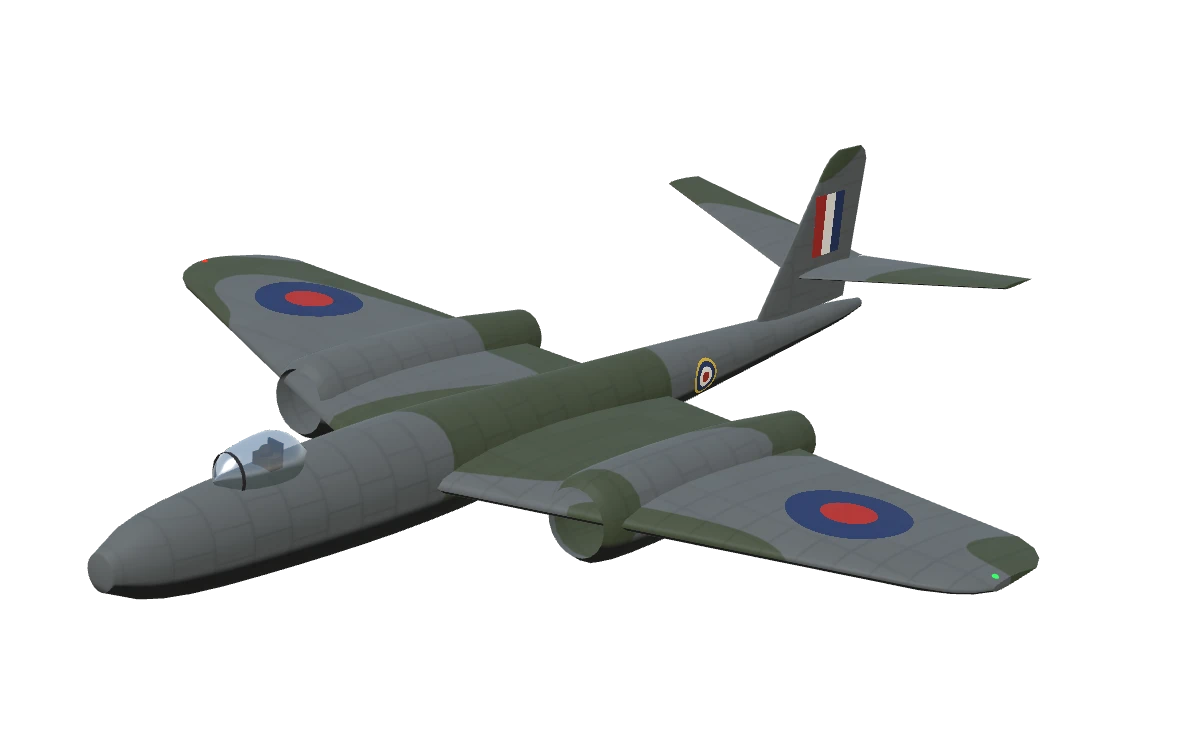
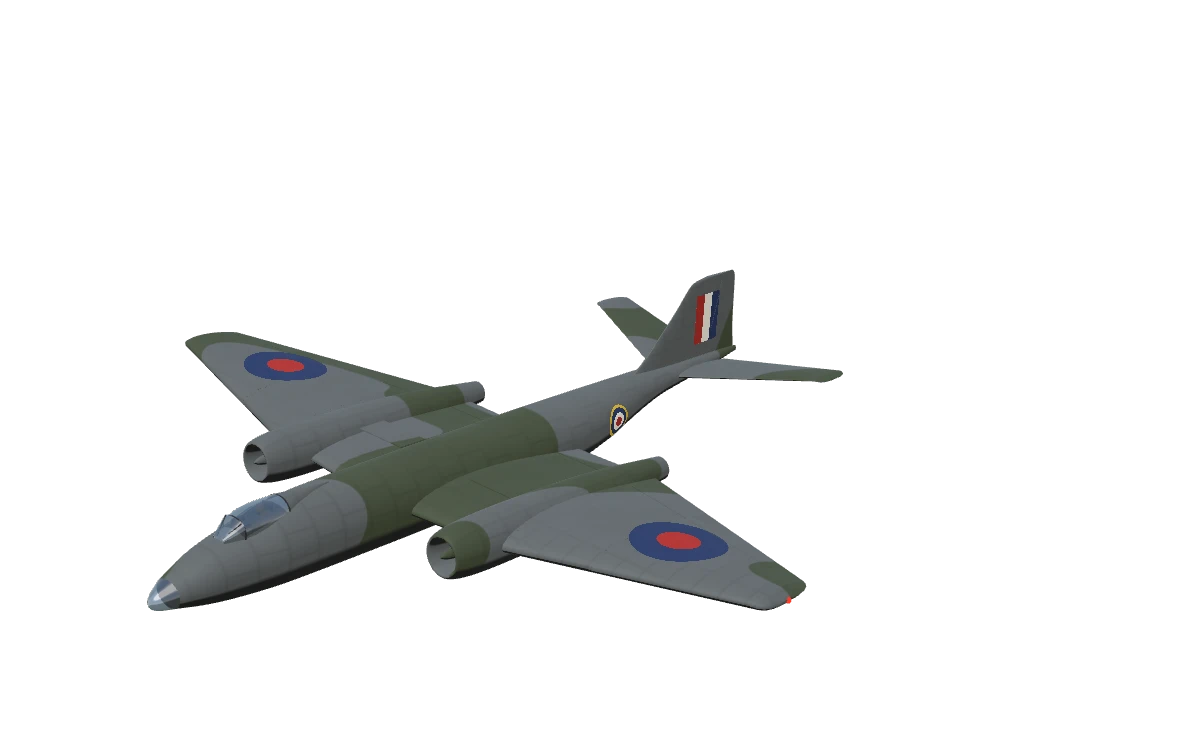
Canberra ayrıntılı model: üç görünüş siluetinden gövde, saydam burun konisi, Avon naselleri, geniş köklü kanat
- Çift burun tekerleği (nose.twin), dışa katlanan ana takım, iç kanat üstünde hava frenleri
- İç ve dış flap ayrı eklem (flapD); hareketli kumanda yüzeyleri, ışıklar
- gearHeight çizime göre; ansiklopedi görselleri yenilendi

Changed region(s): [[0.0617, 0.184, 0.8633, 0.828]]

diff --git a/src/render/models.ts b/src/render/models.ts
@@ -21,7 +21,7 @@ type Geo = THREE.BufferGeometry;
 let DETAIL = 1;
 /** Yüksek ayrıntıda ek çözünürlük çarpanı (videosu çekilen uçaklarda daha çok kenar ve profil noktası). */
 let RES = 1;
-const HIRES: Record<string, number> = { mig15: 2.4, sabre: 1.6, f84: 1.6, p80: 1.6, me262: 1.6, meteor: 1.6, vampire: 1.6, he162: 1.6, ar234: 1.5 };
+const HIRES: Record<string, number> = { mig15: 2.4, sabre: 1.6, f84: 1.6, p80: 1.6, me262: 1.6, meteor: 1.6, vampire: 1.6, he162: 1.6, ar234: 1.5, canberra: 1.5 };
 /** Dönel parçaların kenar sayısı ayrıntıya göre. */
 const sg = (n: number) => (DETAIL ? Math.round(n * 2.25 * RES) : n);
 
@@ -1027,7 +1027,7 @@ interface JetGearOpts {
   /** Ana bacak: x, z, üst ucu (menteşe) y, aks y, tekerlek yarıçapı ve genişliği, tekerleğin bacağa göre içe kayması; out: dışa katlanır. */
   main: { out?: boolean; x: number; z: number; top: number; axle: number; rw: number; tw: number; dx: number; door: { dx: number; top: number; bot: number; w: number; r: number } };
   /** Burun bacağı: menteşe (üst uç) y ve z, aks y ve z, tekerlek; öne bakan küçük kapak (varsa). */
-  nose: { topY: number; topZ: number; axle: number; z: number; rw: number; tw: number; door?: { top: number; bot: number; w: number } };
+  nose: { topY: number; topZ: number; axle: number; z: number; rw: number; tw: number; twin?: number; door?: { top: number; bot: number; w: number } };
   /** Burun takımı yuvasının boyuna iki kapağı: menteşe x'i ve y'si, z aralığı, yükseklik. */
   belly: { x: number; y: number; z0: number; z1: number; h: number };
 }
@@ -1070,7 +1070,7 @@ function jetGear(o: JetGearOpts): Geo[] {
     rod(axle.clone().setX(-fork * 0.4), axle.clone().setX(fork), 0.026, 5),
     rod(along(0.5).add(v(0, 0, -0.05)), along(0.68).add(v(0, 0, -0.14)), 0.016, 4),
     rod(along(0.68).add(v(0, 0, -0.14)), along(0.88).add(v(0, 0, -0.04)), 0.016, 4),
-    ...wheelParts(n.rw, n.tw, 0, n.axle, n.z),
+    ...(n.twin ? [1, -1].flatMap((sd) => wheelParts(n.rw, n.tw, sd * n.twin!, n.axle, n.z)) : wheelParts(n.rw, n.tw, 0, n.axle, n.z)),
   ];
   const noseDoor = n.door
     ? [new THREE.BoxGeometry(n.door.w, n.door.top - n.door.bot, 0.024).translate(0, (n.door.top + n.door.bot) / 2, n.topZ + 0.09)]
@@ -1154,6 +1154,15 @@ function blitzGear(gh: number): Geo[] {
     main: { x: 0.71, z: -0.5, top: -0.33, axle: -gh + 0.38, rw: 0.38, tw: 0.18, dx: -0.03, door: { dx: 0.12, top: -0.4, bot: -0.95, w: 0.45, r: 0.12 } },
     nose: { topY: -0.58, topZ: 3.85, axle: -gh + 0.33, z: 4.0, rw: 0.33, tw: 0.16 },
     belly: { x: 0.2, y: -0.62, z0: 3.8, z1: 2.75, h: 0.2 },
+  });
+}
+
+/** Canberra takımı: ana bacaklar naselin içinde ve dışa toplanır, büyük lastikler; burunda çift tekerlek. */
+function canberraGear(gh: number): Geo[] {
+  return jetGear({
+    main: { out: true, x: 2.5, z: -1.0, top: -0.25, axle: -gh + 0.45, rw: 0.45, tw: 0.22, dx: 0.05, door: { dx: 0.14, top: -0.35, bot: -1.0, w: 0.7, r: 0.15 } },
+    nose: { topY: -0.88, topZ: 3.9, axle: -gh + 0.3, z: 4.0, rw: 0.3, tw: 0.13, twin: 0.14 },
+    belly: { x: 0.26, y: -0.92, z0: 3.85, z1: 2.9, h: 0.24 },
   });
 }
 
@@ -1998,18 +2007,74 @@ function defineModel(key: string): ModelDef {
         ],
       };
     }
-    case 'canberra':
+    case 'canberra': {
+      // Canberra B.2, ölçüler üç görünüş siluetinden. Yuvarlak, kalın gövde; alçak, sivri burun ve ucunda bomba nişancısının
+      // saydam konisi; önde damla kanopi. Çok geniş kök veterli kanat, kalın Avon naselleri kanadın ortasından geçer:
+      // yuvarlak giriş ve ortada üç kollu göbek. Geniş dihedralli yatay kuyruk, kavisle kalkan büyük dikey kuyruk.
+      const NOSE: JetSec[] = [[8.1, 0.01, -0.48, -0.52, -0.5], [8.0, 0.2, -0.3, -0.64, -0.48], [7.62, 0.41, -0.07, -0.69, -0.38]];
+      const GL = new JetHull(NOSE, 2.1);
+      const H = new JetHull([
+        [7.62, 0.41, -0.07, -0.69, -0.38], [6.79, 0.68, 0.33, -0.86, -0.25], [5.72, 0.85, 0.6, -0.95, -0.15], [4.77, 0.98, 0.9, -0.98, -0.05], [-0.23, 1.0, 0.98, -0.98, 0], [-4.52, 0.98, 0.98, -0.79, 0.08],
+        [-7.4, 0.5, 1.02, 0.17, 0.6], [-8.8, 0.45, 1.0, 0.4, 0.7], [-10.4, 0.25, 0.95, 0.55, 0.75], [-11.5, 0.06, 0.85, 0.7, 0.77],
+      ], 2.05);
+      const Wi: WingOpts = { x0: 0.4, z: 1.81, root: 5.75, y: 0.0, tipX: 3.5, tip: 5.55, sweep: 0.03, dihedral: 3, t: 0.75 };
+      const W: WingOpts = { x0: 3.78, z: 1.76, root: 5.44, y: 0.2, tipX: 9.5, tip: 1.7, sweep: 1.42, dihedral: 4.5, t: 0.68 };
+      const T: WingOpts = { x0: 0.3, z: -8.35, root: 2.3, y: 0.72, tipX: 3.78, tip: 1.27, sweep: 1.55, dihedral: 9.5, t: 0.2 };
+      const tipY = W.y + (W.tipX - W.x0) * tanD(W.dihedral);
+      const NX = 3.17;
+      const NY = 0.15;
+      const nacelle = (sd: number): Geo[] => {
+        const o = { x: sd * NX, y: NY };
+        return [
+          body([[2.2, 0.3], [2.7, 0.34], [2.92, 0.4], [2.96, 0.46], [2.88, 0.52], [2.5, 0.6], [1.6, 0.64], [0, 0.63], [-2, 0.56], [-3.6, 0.38], [-4.3, 0.3], [-4.4, 0.29]], 12, { ...o, smooth: true }),
+          tag(body([[1.8, 0.27], [2.22, 0.3]], 12, o), 'dark'),
+          tag(new THREE.CircleGeometry(0.27, sg(12)).translate(o.x, o.y, 1.8), 'dark'),
+          body([[3.0, 0.001], [2.88, 0.08], [2.62, 0.13], [1.9, 0.14]], 8, { ...o, smooth: true }),
+          ...[0, 1, 2].map((i) => {
+            const an = Math.PI / 2 + (i * Math.PI * 2) / 3;
+            return tag(rod(new THREE.Vector3(o.x + Math.cos(an) * 0.1, o.y + Math.sin(an) * 0.1, 2.5), new THREE.Vector3(o.x + Math.cos(an) * 0.32, o.y + Math.sin(an) * 0.32, 2.5), 0.02, 4), 'dark');
+          }),
+          tag(body([[-4.4, 0.26], [-3.9, 0.24]], 12, o), 'dark'),
+          tag(new THREE.CircleGeometry(0.24, sg(12)).rotateY(Math.PI).translate(o.x, o.y, -3.9), 'dark'),
+          tag(new THREE.ConeGeometry(0.12, 0.3, sg(8)).rotateX(-Math.PI / 2).translate(o.x, o.y, -4.05), 'dark'),
+        ];
+      };
       return {
         solids: [
-          fuselage({ noseZ: 9.8, tailZ: -10.0, r: 0.98, sy: 1.05, noseR: 0.3, peak: 0.35, rise: 0.3 }),
-          canopy(6.6, 2.0, 0.55, 0.92, 0.5, true),
-          ...wing({ x0: 1.0, z: 3.5, root: 6.5, y: 0, tipX: 9.75, tip: 2.6, sweep: 3.0, dihedral: 2, t: 0.6, shape: 'rounded' }),
-          ...mirror(3.4, (x) => jetPod(x, 0, 2.7, 6.0, 0.82)),
-          ...fins({ y0: 0.6, z0: -6.4, h: 3.0, root: 3.0, tip: 1.3, sweep: 2.0, t: 0.18 }),
-          ...wing({ x0: 0.1, z: -7.6, root: 2.4, y: 1.1, tipX: 4.25, tip: 1.0, sweep: 1.0, dihedral: 10, t: 0.16 }),
+          tag(GL.geo(13), 'glass'),
+          tag(H.disc(7.62, 1, 13), 'dark'),
+          H.geo(14),
+          tag(H.patch(1, 5.95, 4.85, Math.PI / 2 - 0.42, Math.PI / 2 + 0.42, 0.006), 'dark'),
+          ...jetCanopy({
+            screen: [[6.35, 0.2, 0.5, 0.1, 0.45], [5.95, 0.38, 0.84, 0.1, 0.55]],
+            glass: [[5.95, 0.38, 0.84, 0.1, 0.55], [5.6, 0.44, 0.97, 0.1, 0.6], [5.1, 0.44, 0.99, 0.1, 0.62], [4.75, 0.38, 0.99, 0.2, 0.68]],
+            aft: [[4.8, 0.39, 1.0, 0.2, 0.68], [4.2, 0.22, 0.98, 0.2, 0.72], [3.4, 0.02, 0.93, 0.3, 0.7]],
+            frames: [5.95, 4.78],
+            posts: [[0.1, 0.5, 6.32], [0.27, 0.8, 5.97]],
+            pilot: { z: 5.35, len: 1.5, h: 0.42, y: 0.62, w: 0.4 },
+          }),
+          // İç kanat flaplı, dış kanat kanatçıklı; uç yuvarlak. Parmak hava frenleri iç kanadın üstünde
+          ...controlWing(Wi, 0.85, [[0, 0.75, 'flap'], [0.75, 1, null]]),
+          ...controlWing(W, 0.8, [[-0.15, 0, null], [0, 0.36, 'flapD'], [0.36, 0.37, null], [0.37, 0.98, 'aileron'], [0.98, 1, null]], 2.5),
+          ...nacelle(1),
+          ...nacelle(-1),
+          ...[1, -1].flatMap((sd) => [
+            tag(new THREE.BoxGeometry(1.4, 0.008, 0.72).translate(sd * 1.9, 0.46, -0.2), 'dark'),
+            ...joint(sd > 0 ? 'airbrakeL' : 'airbrakeR', [sd * 1.9, 0.47, -0.6], [new THREE.BoxGeometry(1.5, 0.02, 0.8).translate(sd * 1.9, 0.47, -0.2)], false, [sd, 0, 0]),
+          ]),
+          ...controlWing(T, 0.7, [[0, 0.96, 'elevator'], [0.96, 1, null]], 3),
+          ...jetFin([[0.85, -6.8, 4.6], [1.25, -7.38, 3.95], [1.7, -7.85, 3.4], [2.4, -8.6, 2.6], [3.0, -9.1, 2.05], [3.12, -9.3, 1.8], [3.19, -9.75, 1.25]], 0.24, 0.68, 2, 4),
         ],
         props: [],
+        markZ: -5.6,
+        lights: [
+          { p: [W.tipX + 0.26, tipY, W.z - W.sweep - W.tip * 0.45], kind: 'red' },
+          { p: [-W.tipX - 0.26, tipY, W.z - W.sweep - W.tip * 0.45], kind: 'green' },
+          { p: [0, 2.2, -11.28], kind: 'white' },
+          { p: [1.6, -0.36, 1.6], kind: 'landing' },
+        ],
       };
+    }
     // ================================================================ Çeşitlilik: pervaneliler
     case 'i16':
       return {
@@ -2745,6 +2810,7 @@ function landingGear(probe: Probe, bb: THREE.Box3, spec: AircraftSpec | undefine
   if (kind === 'vampire') return vampireGear(gearHeight(spec));
   if (kind === 'he162') return salamanderGear(gearHeight(spec));
   if (kind === 'ar234') return blitzGear(gearHeight(spec));
+  if (kind === 'canberra') return canberraGear(gearHeight(spec));
   const gh = spec.span > 25 ? 3.4 : spec.engines > 1 ? 2.6 : 1.9;
   const half = bb.max.x;
   const tricycle = !spec.tailDragger;

diff --git a/src/sim/aircraft/flightModel.ts b/src/sim/aircraft/flightModel.ts
@@ -82,6 +82,7 @@ export function gearHeight(spec: AircraftSpec): number {
   if (spec.id === 'vampire') return 1.2;
   if (spec.id === 'he162') return 1.13;
   if (spec.id === 'ar234') return 1.45;
+  if (spec.id === 'canberra') return 1.6;
   return spec.span > 25 ? 3.4 : spec.engines > 1 ? 2.6 : 1.9;
 }
 

diff --git a/src/render/gameRenderer.ts b/src/render/gameRenderer.ts
@@ -580,6 +580,8 @@ export class GameRenderer {
     hinge(j.elevatorR, s.ele);
     hinge(j.flapL, -s.flap);
     hinge(j.flapR, -s.flap);
+    hinge(j.flapDL, -s.flap);
+    hinge(j.flapDR, -s.flap);
     hinge(j.rudder, s.rud);
     hinge(j.rudderR, s.rud);
     hinge(j.airbrakeL, -s.brake);
